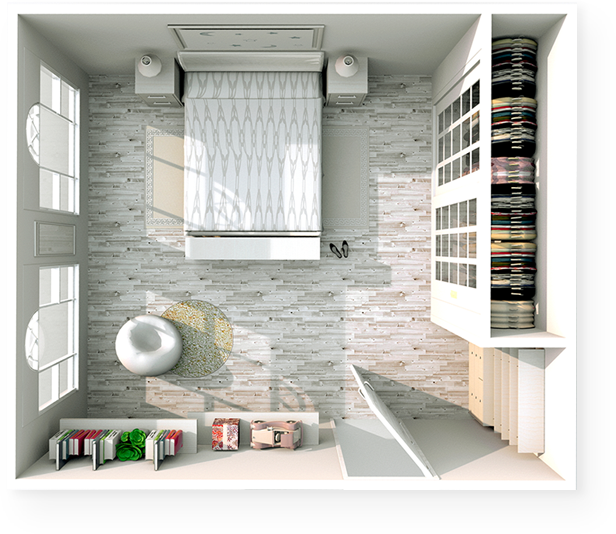
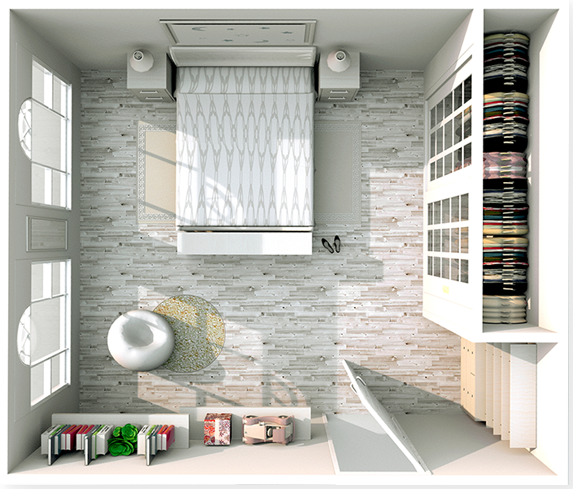
Внёс правки для фонового цвета и main-image

diff --git a/src/css/style.css b/src/css/style.css
@@ -157,6 +157,7 @@ li {
 
 .hero {
   padding: 51px 0;
+  background-color: #f5f5f5;
 }
 
 .hero-block {
@@ -168,7 +169,6 @@ li {
 .hero-text {
   -ms-flex-preferred-size: 50%;
       flex-basis: 50%;
-  padding-right: 140px;
 }
 
 .hero-text__title {

diff --git a/src/sass/blocks/_hero.sass b/src/sass/blocks/_hero.sass
@@ -5,11 +5,11 @@ li
  line-height: 24px
 .hero
  padding: 51px 0
+ background-color: #f5f5f5
  &-block
   display: flex
  &-text
   flex-basis: 50%
-  padding-right: 140px
   &__title
    font-family: "Museo Sans Cyrl 700"
    font-size: 41px
